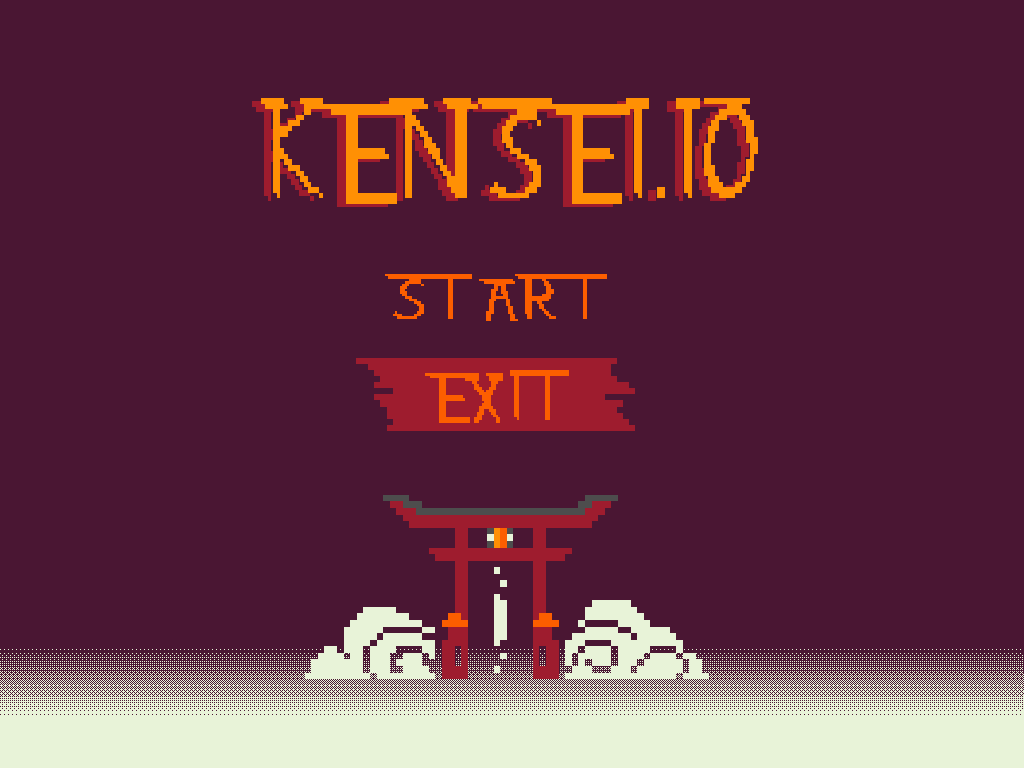
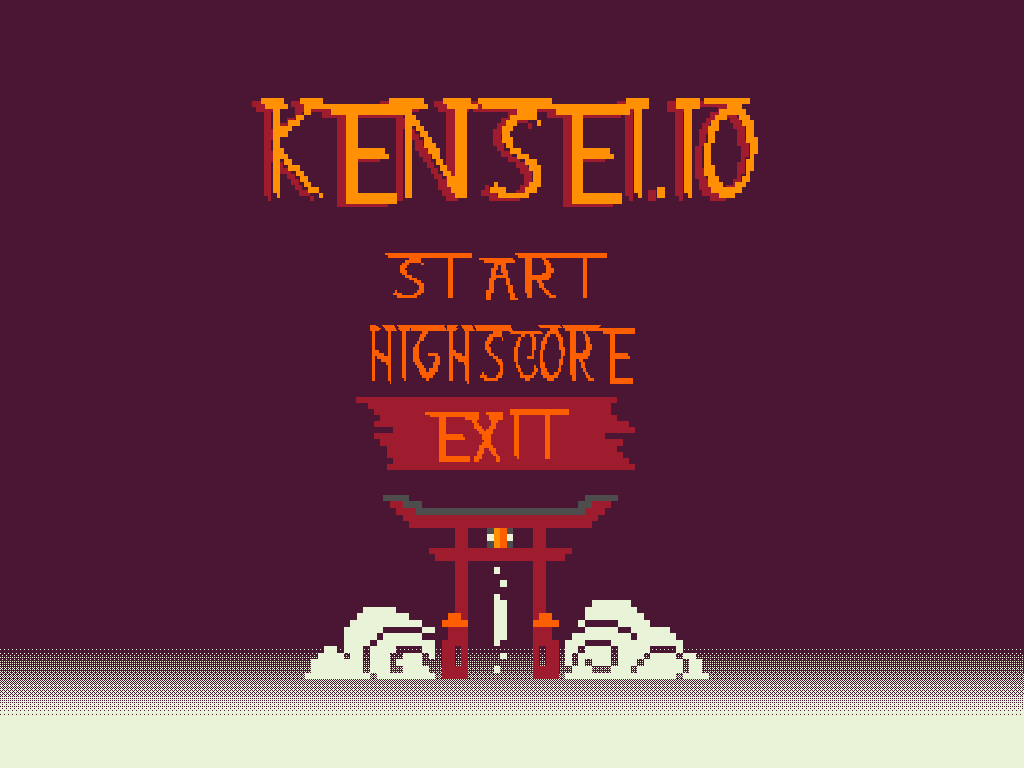
implementado highscore (sem nomes ainda), salvando em arquivo (faltando implementar opção no menu para ver a pontuação)

Changed region(s): [[0.3438, 0.3125, 0.625, 0.625]]

diff --git a/main.cpp b/main.cpp
@@ -10,6 +10,9 @@
 #include <GL/freeglut.h>
 #include <string>
 #include <math.h>
+#include <iostream>
+#include <fstream>
+#include <bits/stdc++.h>
 #include "player.h"
 #include "draw.h"
 #include "physics.h"
@@ -33,7 +36,7 @@ enum GAME_STATE{MENU=-1,DEAD,PAUSE,QUIT,GAME_0};
 enum PLAYER_ANIM{IDLE=0,WALK,BACKIDLE,BACKWALK};
 enum COLLECTABEL_TEXTURES{PIXIE=0,DEMON,MIKO,KITSUNE};
 enum GUI_TEXTURES{RESTARTGREYED=0,RESTARTBRIGHT,RESTARTBRIGHTYES,RESTARTBRIGHTNO,QUITGREYED,QUITBRIGHT,QUITBRIGHTYES,QUITBRIGHTNO,TEXPAUSE,WOODPLATE,PORTRAIT,MOLDURA};
-enum MENU_SELECTION{START=0,EXIT};
+enum MENU_SELECTION{START=0,HIGHSCORE,EXIT};
 enum SWORD_MODE{SWORD_KEY=0,SWORD_MOUSE};
 
 using namespace std;
@@ -43,10 +46,15 @@ using namespace std;
 // Arquivo de SFX
 	Mix_Chunk *slash_sound = NULL;
 
+// Vetor de nomes dos 5 melhores jogadores
+	string top_player_names[5];
+// Vetor de pontuação dos 
+	int top_player_scores[5];
+
 // Inicializar variavel
     bool keyState[300];
     int gameState=MENU;
-    int menuSelection=0;
+    int menuSelection=START;
 
 // Instanciar classes
     Player p1(WIDTH,HEIGHT);
@@ -61,7 +69,7 @@ using namespace std;
     GLuint textureCollectables[10];
     GLuint textureShadowblob;
     GLuint textureGUI[20];
-    GLuint textureMenu[2];
+    GLuint textureMenu[3];
 
 void importTextures()
 {
@@ -90,10 +98,23 @@ void importTextures()
     textureCollectables[KITSUNE] = SOIL_load_OGL_texture("tex/kitsune.png",SOIL_LOAD_AUTO,SOIL_CREATE_NEW_ID,SOIL_FLAG_INVERT_Y);
     textureShadowblob = SOIL_load_OGL_texture("tex/shadow.png",SOIL_LOAD_AUTO,SOIL_CREATE_NEW_ID,SOIL_FLAG_INVERT_Y);
     textureMenu[START] = SOIL_load_OGL_texture("tex/menuSTART.png",SOIL_LOAD_AUTO,SOIL_CREATE_NEW_ID,SOIL_FLAG_INVERT_Y);
+    textureMenu[HIGHSCORE] = SOIL_load_OGL_texture("tex/menuHIGHSCORE.png",SOIL_LOAD_AUTO,SOIL_CREATE_NEW_ID,SOIL_FLAG_INVERT_Y);
     textureMenu[EXIT] = SOIL_load_OGL_texture("tex/menuEXIT.png",SOIL_LOAD_AUTO,SOIL_CREATE_NEW_ID,SOIL_FLAG_INVERT_Y);
 
     if (texturePlayer == 0) 
       printf("Erro do SOIL: '%s'\n", SOIL_last_result());
+}
+
+void exitFromGame()
+{
+	// Salvar no arquivo
+		ofstream arquivo;
+		arquivo.open ("top_score.txt");
+		for(int x=0;x<5;x++)
+			arquivo << top_player_scores[x] << endl;
+		arquivo.close();
+
+	exit(0);
 }
 
 void init(){
@@ -102,6 +123,18 @@ void init(){
 
     // Inicializa objetos
     initObj(objArray,MAX_COLLECTABLES,(double)MAP_BORDERY);
+
+    // Carregar Melhores Pontuações
+    ifstream arquivo;
+    arquivo.open("top_score.txt");
+    for(int x=0; arquivo.peek()!=-1; x++)
+    {
+    	arquivo >> top_player_scores[x];
+    }
+    arquivo.close();
+
+    for(int i=0; i<5;i++)
+    	printf("Point: %i \n",top_player_scores[i]);
 
     // Importa texturas
     importTextures();
@@ -127,13 +160,25 @@ void stateMachine()
     switch(gameState)
     {
         case MENU:
-      	  if(keyState[' '] && menuSelection==0)
+      	  	if(keyState[' '])
+			{
+				switch(menuSelection)
 				{
-					gameState=GAME_0;
-					reset(&p1,&cam,objArray,MAX_COLLECTABLES);
+					case START:
+						gameState=GAME_0;
+						reset(&p1,&cam,objArray,MAX_COLLECTABLES);
+					break;
+
+					case HIGHSCORE:
+					break;
+
+					case EXIT:
+						exitFromGame();
+					break;
+
 				}
-			if(keyState[' '] && menuSelection==1)
-				exit(0);
+				
+			}
         break;
 
         case QUIT:
@@ -141,6 +186,43 @@ void stateMachine()
         break;
 
         case DEAD:
+        	if(p1.canSave)
+        	{
+        		for(int x=0;x<5;x++)
+				{
+					for(int y=0;y<4;y++)
+					{
+						if(top_player_scores[x]<top_player_scores[x+1])
+						{
+							int a=top_player_scores[x];
+							top_player_scores[x]=top_player_scores[x+1];
+							top_player_scores[x+1]=a;
+						}
+					}
+				}
+
+				for(int i=0; i<5;i++)
+    				printf("PointBef: %i \n",top_player_scores[i]);
+
+        		for(int x=0; x<=5;x++)
+        		{
+        			if(p1.points > top_player_scores[x])
+        			{
+        				for(int y=5;y>x;y--)
+        				{
+        					top_player_scores[y]=top_player_scores[y-1];
+        				}
+
+        				top_player_scores[x] = p1.points;
+        				break;
+        			}
+        		}
+
+        		for(int i=0; i<5;i++)
+    				printf("PointAf: %i \n",top_player_scores[i]);
+
+				p1.canSave=false;
+        	}
         	cam.gui->restart=true;
         break;
 
@@ -246,9 +328,9 @@ void key_press_callback(unsigned char key,int x,int y){ // x,y -> pos. mouse
 		case MENU:
 			// Selection menu
 			if(key=='w')
-				menuSelection++;
-			if(key=='s')
 				menuSelection--;
+			if(key=='s')
+				menuSelection++;
 			if(menuSelection<0)
 				menuSelection=EXIT;
 			if(menuSelection>EXIT)
@@ -289,7 +371,7 @@ void passive_mouse_callback(int x, int y){
 			p1.sword->rotation=360-teta;
 	}
 
-	cout << "mouse(X,Y): ("<< x << ","<< y << ")  d(X,Y)=(" << x-p1.x << ","<< y-p1.y << ")  theta: " << acos((x-p1.x)/sqrt(pow(x-p1.x,2)+pow(y-p1.y,2)))*180/M_PI << endl;
+	//cout << "mouse(X,Y): ("<< x << ","<< y << ")  d(X,Y)=(" << x-p1.x << ","<< y-p1.y << ")  theta: " << acos((x-p1.x)/sqrt(pow(x-p1.x,2)+pow(y-p1.y,2)))*180/M_PI << endl;
 
 	if(gameState==DEAD)
 	{
@@ -353,7 +435,7 @@ void mouse_callback(int button, int state, int x, int y)
 		// YES
 		   	if(x<cam.gui->quitX && x>cam.gui->quitX-cam.gui->quitSize/2 && y<cam.gui->quitY+cam.gui->quitSize/2 && y>cam.gui->quitY)
 			{
-				exit(0);
+				exitFromGame();
 			}
 		// NO
 			else if(x<cam.gui->quitX+cam.gui->quitSize/2 && x>cam.gui->quitX  && y<cam.gui->quitY+cam.gui->quitSize/2 && y>cam.gui->quitY)
@@ -402,16 +484,16 @@ void draw_callback(void){
 		        {
 		        	// Sombra
 		        		glColor4f(1,1,1,0.5);
-		        		drawObject(objArray[x]->x, (objArray[x]->y-objArray[x]->size/2), 0, 50, &cam, true, textureShadowblob,1,1,1);
+		        		drawObject(objArray[x]->x, (objArray[x]->y-objArray[x]->sizey/2), 0, 50,50, &cam, true, textureShadowblob,1,1,1);
 		        		glColor4f(1,1,1,1);
 		        	if(dynamic_cast<Pixie*>(objArray[x])) // Semelhante a "instanceof" (pelo que entendi, tenta reduzir o objeto "genérico" ao tipo Pixie, se der bom, retorna true, se não, false)
-		            	drawObject(objArray[x]->x, objArray[x]->y,0, objArray[x]->size, &cam, objArray[x]->isAlive, textureCollectables[PIXIE],objArray[x]->frame,objArray[x]->total_frames,objArray[x]->frame_orientation);	
+		            	drawObject(objArray[x]->x, objArray[x]->y,0, objArray[x]->sizex, objArray[x]->sizey, &cam, objArray[x]->isAlive, textureCollectables[PIXIE],objArray[x]->frame,objArray[x]->total_frames,objArray[x]->frame_orientation);	
 		        	if(dynamic_cast<Demon*>(objArray[x]))
-		            	drawObject(objArray[x]->x, objArray[x]->y,0, objArray[x]->size, &cam, objArray[x]->isAlive, textureCollectables[DEMON],objArray[x]->frame,objArray[x]->total_frames,objArray[x]->frame_orientation);
+		            	drawObject(objArray[x]->x, objArray[x]->y,0, objArray[x]->sizex, objArray[x]->sizey, &cam, objArray[x]->isAlive, textureCollectables[DEMON],objArray[x]->frame,objArray[x]->total_frames,objArray[x]->frame_orientation);
 		            if(dynamic_cast<Miko*>(objArray[x]))
-		            	drawObject(objArray[x]->x, objArray[x]->y,0, objArray[x]->size, &cam, objArray[x]->isAlive, textureCollectables[MIKO],objArray[x]->frame,objArray[x]->total_frames,objArray[x]->frame_orientation);
+		            	drawObject(objArray[x]->x, objArray[x]->y,0, objArray[x]->sizex, objArray[x]->sizey, &cam, objArray[x]->isAlive, textureCollectables[MIKO],objArray[x]->frame,objArray[x]->total_frames,objArray[x]->frame_orientation);
 		            if(dynamic_cast<Kitsune*>(objArray[x]))
-		            	drawObject(objArray[x]->x, objArray[x]->y,0, objArray[x]->size, &cam, objArray[x]->isAlive, textureCollectables[KITSUNE],objArray[x]->frame,objArray[x]->total_frames,objArray[x]->frame_orientation);
+		            	drawObject(objArray[x]->x, objArray[x]->y,0, objArray[x]->sizex, objArray[x]->sizey, &cam, objArray[x]->isAlive, textureCollectables[KITSUNE],objArray[x]->frame,objArray[x]->total_frames,objArray[x]->frame_orientation);
 		        }
 
 	  		// Desenhar Player e Espada
@@ -502,6 +584,7 @@ int main(int argc, char** argv){
 
 	// quit SDL_mixer
 		Mix_CloseAudio();
+
     
     return 0;
 }

diff --git a/draw.cpp b/draw.cpp
@@ -43,7 +43,7 @@ void drawBg(double x, double y, double z, double sizex,double sizey,Camera *cam,
 	glPopMatrix();
 }
 
-void drawObject(double x, double y, double z, double size,Camera *cam, bool canDraw, GLuint texture,int frame,int total_frames,int frame_orientation)
+void drawObject(double x, double y, double z, double sizex, double sizey,Camera *cam, bool canDraw, GLuint texture,int frame,int total_frames,int frame_orientation)
 {
 	/*
 		A ideia aqui é transladar todo o fundo/objetos de acordo com o input/movimentação do player
@@ -53,7 +53,8 @@ void drawObject(double x, double y, double z, double size,Camera *cam, bool canD
 
 	if(!canDraw) return;
 	
-	size/=2;
+	sizex/=2;
+	sizey/=2;
 	
 	glPushMatrix();
 	
@@ -73,10 +74,10 @@ void drawObject(double x, double y, double z, double size,Camera *cam, bool canD
   			glTexParameteri(GL_TEXTURE_2D,GL_TEXTURE_MIN_FILTER,GL_NEAREST);
 			
 			glBegin(GL_TRIANGLE_FAN);
-				glTexCoord2d((frame-1)*((double)1/total_frames),0); glVertex3d(-size,-size,0);
-				glTexCoord2d((frame)*((double)1/total_frames),0); glVertex3d(size,-size,0);
-				glTexCoord2d((frame)*((double)1/total_frames),1); glVertex3d(size,size,0);
-				glTexCoord2d((frame-1)*((double)1/total_frames),1); glVertex3d(-size,size,0);
+				glTexCoord2d((frame-1)*((double)1/total_frames),0); glVertex3d(-sizex,-sizey,0);
+				glTexCoord2d((frame)*((double)1/total_frames),0); glVertex3d(sizex,-sizey,0);
+				glTexCoord2d((frame)*((double)1/total_frames),1); glVertex3d(sizex,sizey,0);
+				glTexCoord2d((frame-1)*((double)1/total_frames),1); glVertex3d(-sizex,sizey,0);
 			glEnd();
 
 			glDisable(GL_TEXTURE_2D);

diff --git a/physics.cpp b/physics.cpp
@@ -83,10 +83,10 @@ void calculatePhysics(Player *p1, Camera *cam,bool keyState[],Collectable **objA
 		for(int x=0;x<objCount;x++)
 		{
 			// Colisão com o JOGADOR
-			if(objArray[x]->isAlive && objArray[x]->x - objArray[x]->size/2 < p1->x+p1->sizex/2 
-									&& objArray[x]->x + objArray[x]->size/2 > p1->x-p1->sizex/2 
-									&& objArray[x]->y - objArray[x]->size/2 < p1->y+p1->sizey/2 
-									&& objArray[x]->y + objArray[x]->size/2 > p1->y-p1->sizey/2)
+			if(objArray[x]->isAlive && objArray[x]->x - objArray[x]->sizex/2 < p1->x+p1->sizex/2 
+									&& objArray[x]->x + objArray[x]->sizex/2 > p1->x-p1->sizex/2 
+									&& objArray[x]->y - objArray[x]->sizey/2 < p1->y+p1->sizey/2 
+									&& objArray[x]->y + objArray[x]->sizey/2 > p1->y-p1->sizey/2)
 			{
 				colided=true;
 				objArray[x]->isAlive=false;
@@ -95,7 +95,10 @@ void calculatePhysics(Player *p1, Camera *cam,bool keyState[],Collectable **objA
 				if(!p1->fakePlayer)
 				{
 					if(objArray[x]->canKill)
+					{
 						*gameState=DEAD;
+						p1->canSave=true;
+					}
 					else
 					{
 						p1->points++;
@@ -124,7 +127,7 @@ void calculatePhysics(Player *p1, Camera *cam,bool keyState[],Collectable **objA
 
 
 
-					if(dist1 <= p1->sword->fixed_width/2 + objArray[x]->size/2){
+					if(dist1 <= p1->sword->fixed_width/2 + (objArray[x]->sizex+objArray[x]->sizey)/4){
 						colided=true;
 						objArray[x]->isAlive=false;
 						objArray[x]->rePosition();

diff --git a/objects.h b/objects.h
@@ -16,7 +16,7 @@ class Collectable
 		double vx,vy;
 		int delay_randomv,canRand; // Para aleatorizar velocidade
 		int frame,total_frames,frame_delay,frame_orientation;
-		double size;
+		double sizex,sizey;
 		bool isAlive;
 		bool canKill;
 
@@ -40,6 +40,8 @@ class Pixie : public Collectable
 		this->multiply_speed=2;
 		Collectable::total_frames=4;
 		Collectable::canKill=false;
+		Collectable::sizex=100;
+		Collectable::sizey=100;
 	}
 };
 
@@ -51,7 +53,8 @@ class Demon : public Collectable
 	{
 		Collectable::canKill=true;
 		Collectable::total_frames=4;
-		Collectable::size=100;
+		Collectable::sizex=75;
+		Collectable::sizey=100;
 	}
 };
 
@@ -62,7 +65,8 @@ class Miko : public Collectable
 	{
 		Collectable::canKill=false;
 		Collectable::total_frames=4;
-		Collectable::size=150;
+		Collectable::sizex=75;
+		Collectable::sizey=150;
 	}
 };
 
@@ -73,7 +77,8 @@ class Kitsune : public Collectable
 	{
 		Collectable::canKill=false;
 		Collectable::total_frames=3;
-		Collectable::size=100;
+		Collectable::sizex=100;
+		Collectable::sizey=100;
 	}
 };
 

diff --git a/draw.h b/draw.h
@@ -7,7 +7,7 @@
 // function prototypes, etc.
 void animationControl(Player *);
 void drawBg(double x, double y, double z, double sizex,double sizey,Camera *cam, bool canDraw, GLuint texture);
-void drawObject(double x, double y, double z, double size,Camera *cam, bool canDraw, GLuint texture,int frame,int total_frames,int frame_orientation);
+void drawObject(double x, double y, double z, double sizex, double sizey,Camera *cam, bool canDraw, GLuint texture,int frame,int total_frames,int frame_orientation);
 void drawOnScreen(double x, double y, double z, double sizex,double sizey, double degree, GLuint texture,int frame,int total_frames,int frame_orientation);
 void drawSword(double x, double y, double z, double size, double fixed_width,double degree, GLuint texture,int frame,int total_frames,int frame_orientation);
 void drawOverlay(double x, double y, double z, double sizex,double sizey, bool canDraw, GLuint texture);

diff --git a/player.h b/player.h
@@ -32,6 +32,7 @@ class Player{
 		double vel_multiplier;
 		double vx,vy,vmax,fric; //velocidade nos eixos x,y, o maximo que o jogador pode atingir e a fricção com o ambiente
 		bool fakePlayer; // deixa o player existir, porem as interações ao seu redor não afetam
+		bool canSave;
 		int isAlive;	//player vivo? vidas?
 		int points;
 		int frame,total_frames,frame_delay;
@@ -52,7 +53,7 @@ class GUI
 		double quitX, quitY, quitSize;
 		int textureQuit;
 
-		bool pause,canPause;
+		bool pause;
 		double pauseX, pauseY, pauseSize;
 		int texturePause;
 

diff --git a/player.cpp b/player.cpp
@@ -43,6 +43,8 @@ Player::Player(double width,double height)
 	this->vmax=10;
 	this->fric=1.1;
 	this->vel_multiplier=1;
+
+	this->canSave=false;
 	
 	this->isAlive=1;
 }
@@ -62,7 +64,6 @@ GUI::GUI(double width, double height)
 	this->textureQuit=QUITGREYED;
 
 	this->pause=false;
-	this->canPause=true;
 	this->pauseSize=600;
 	this->pauseX=width/2;
 	this->pauseY=height/2;

diff --git a/objects.cpp b/objects.cpp
@@ -33,8 +33,6 @@ Collectable::Collectable(double map_border)
 
 	this->isAlive=true;
 
-	this->size=60;
-
 	this->x=(int)rand()%(int)(this->map_border-2000)+500;
 	this->y=(int)rand()%(int)(this->map_border-2000)+500;
 
